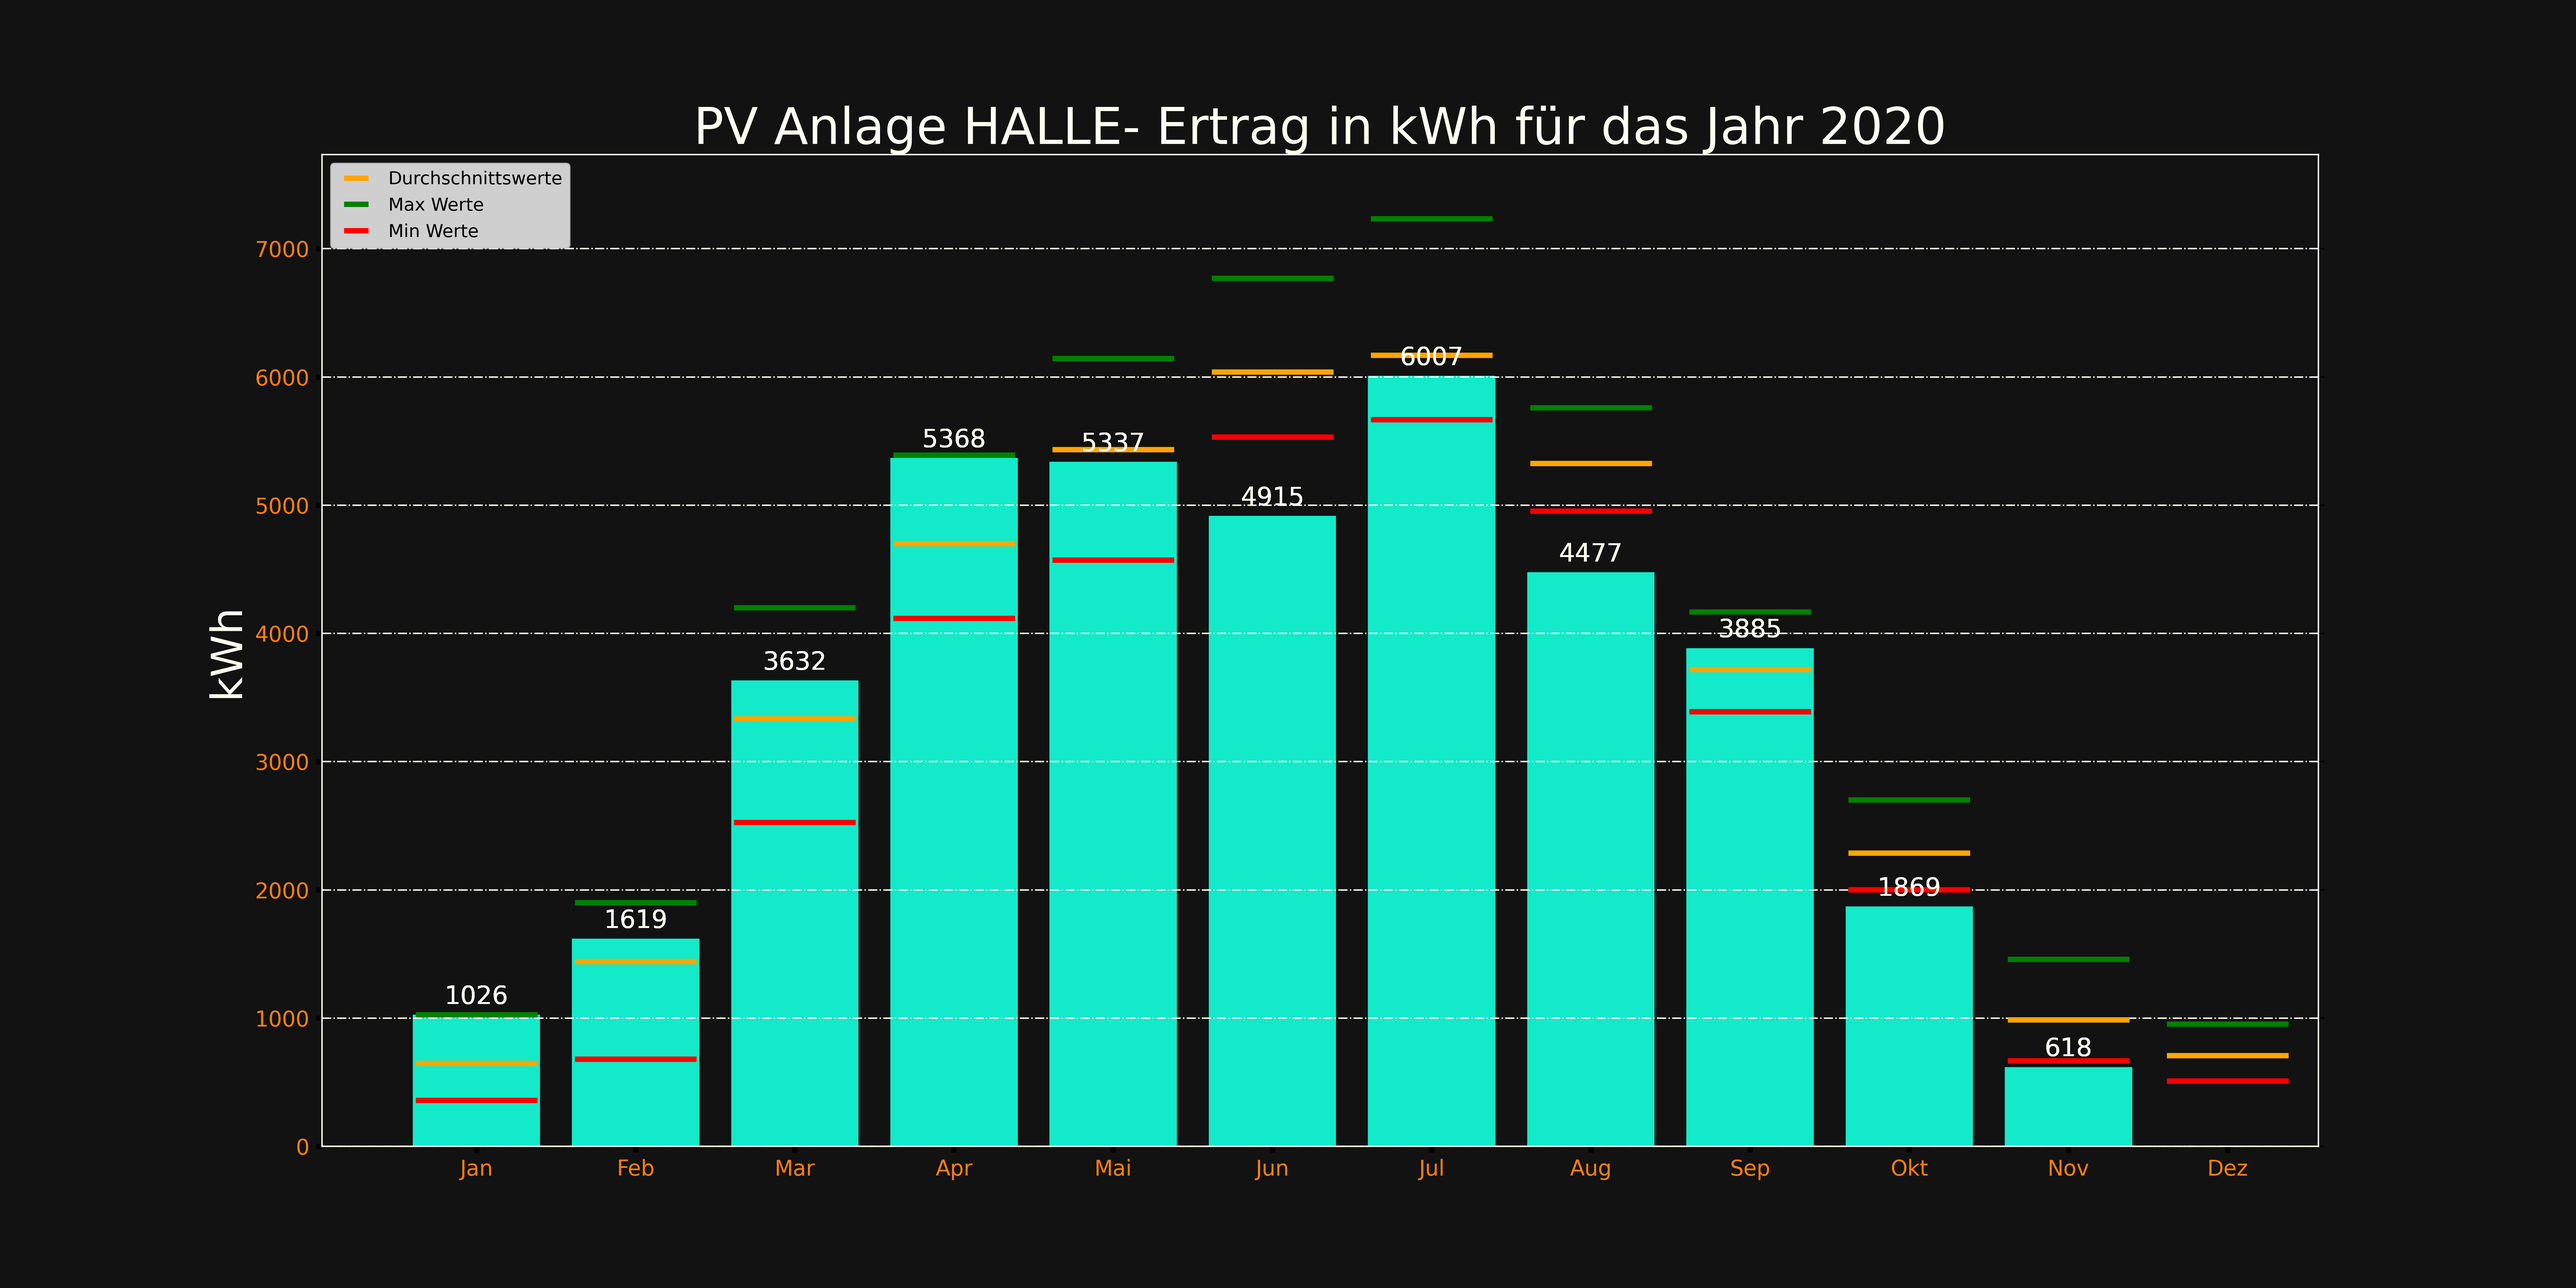
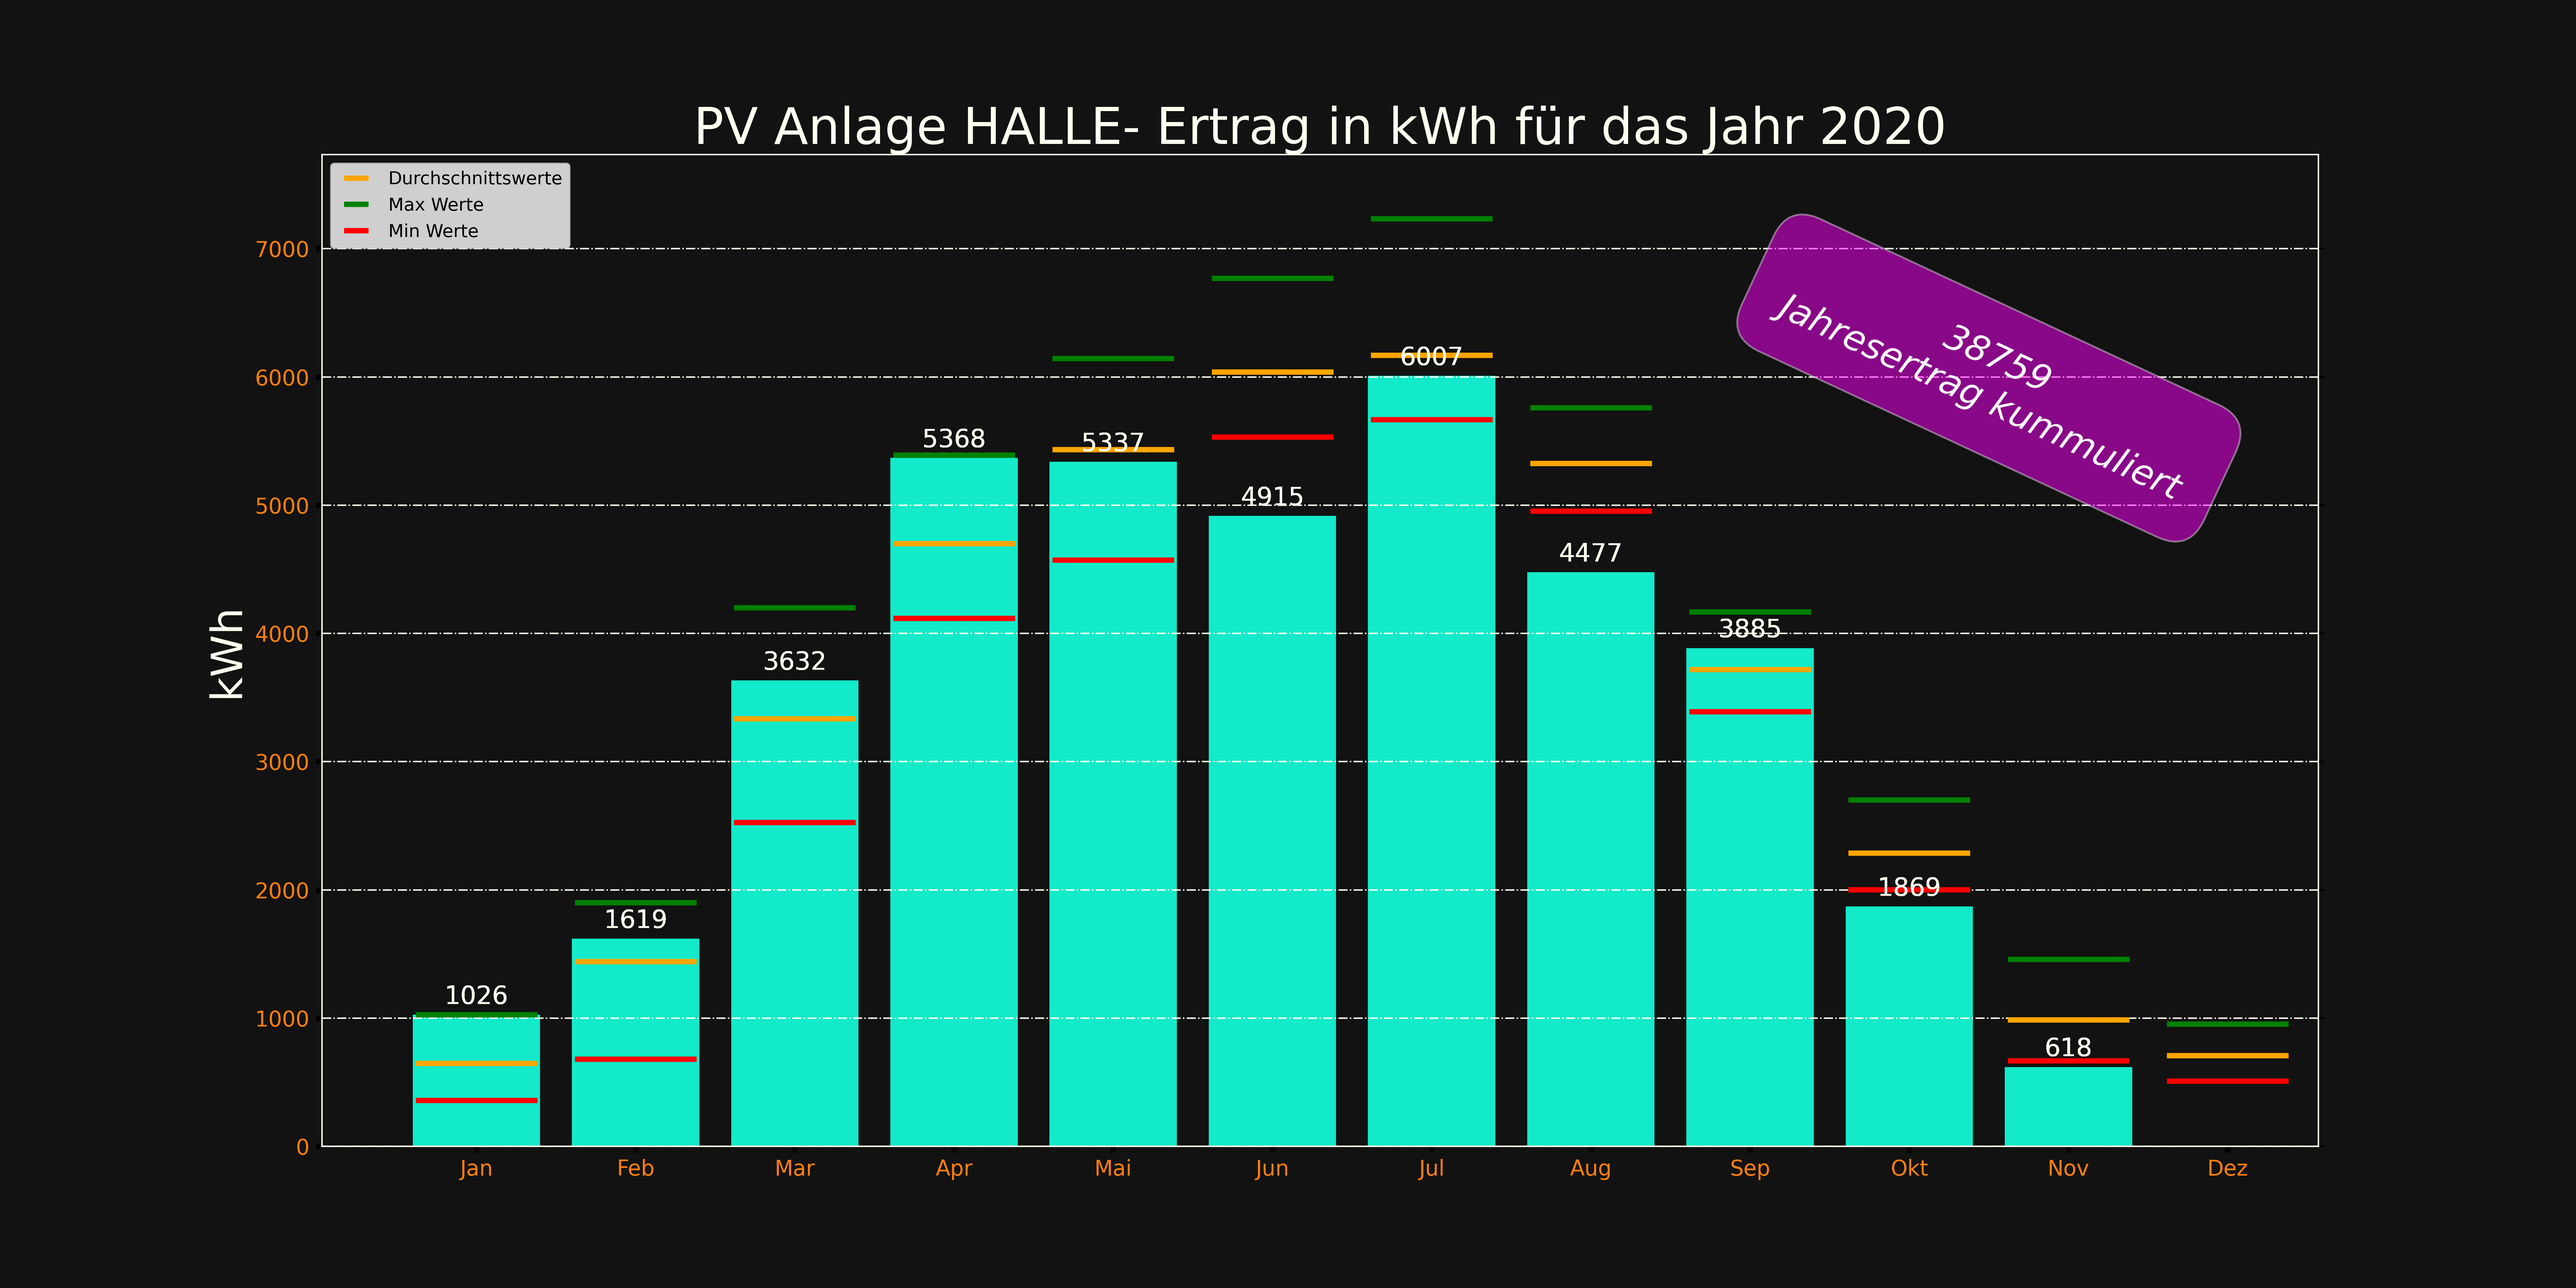
html added

Changed region(s): [[0.6562, 0.1562, 0.875, 0.4375]]

diff --git a/html_template/photovoltaik_html_template.html b/html_template/photovoltaik_html_template.html
@@ -1,0 +1,50 @@
+<!doctype html>
+<html lang="en">
+  <head>
+    <!-- Required meta tags -->
+    <meta charset="utf-8">
+    <meta name="viewport" content="width=device-width, initial-scale=1, shrink-to-fit=no">
+
+    <!-- Bootstrap CSS -->
+    <link rel="stylesheet" href="https://stackpath.bootstrapcdn.com/bootstrap/4.1.3/css/bootstrap.min.css" integrity="sha384-MCw98/SFnGE8fJT3GXwEOngsV7Zt27NXFoaoApmYm81iuXoPkFOJwJ8ERdknLPMO" crossorigin="anonymous">
+    <!-- <link href='http://fonts.googleapis.com/css?family=Oswald:400,300,700' rel='stylesheet' type='text/css'> -->
+    <link href='http://fonts.googleapis.com/css?family=Roboto' rel='stylesheet' type='text/css'>
+<style> 
+img.plot {
+  width: 100%;
+  height: auto;
+}
+
+</style>
+
+<title>Covid</title>
+</head>
+<body>
+    <!-- Optional JavaScript -->
+    <!-- jQuery first, then Popper.js, then Bootstrap JS -->
+    <script src="https://code.jquery.com/jquery-3.3.1.slim.min.js" integrity="sha384-q8i/X+965DzO0rT7abK41JStQIAqVgRVzpbzo5smXKp4YfRvH+8abtTE1Pi6jizo" crossorigin="anonymous"></script>
+    <script src="https://cdnjs.cloudflare.com/ajax/libs/popper.js/1.14.3/umd/popper.min.js" integrity="sha384-ZMP7rVo3mIykV+2+9J3UJ46jBk0WLaUAdn689aCwoqbBJiSnjAK/l8WvCWPIPm49" crossorigin="anonymous"></script>
+    <script src="https://stackpath.bootstrapcdn.com/bootstrap/4.1.3/js/bootstrap.min.js" integrity="sha384-ChfqqxuZUCnJSK3+MXmPNIyE6ZbWh2IMqE241rYiqJxyMiZ6OW/JmZQ5stwEULTy" crossorigin="anonymous"></script>
+    
+  <table class="table table-dark">
+  
+<thead>
+    <tr>
+        <!-- <tr><td style="text-align:center"><img src="https://storage.googleapis.com/darkshadow-share/corona1.png" class="logo"></td>     -->
+          <td>Photovoltaik</td>
+    </tr>
+
+    <!-- <tr>
+      <th scope="col" style="vertical-align: middle">#</th>
+      <th scope="col" style="vertical-align: middle">Stadt/Landkreis</th>
+      <th scope="col" style="vertical-align: middle">7 Tage Inzidenz pro 100k Einwohner</th>
+      <th colspan = 2 scope="col" style="vertical-align: middle">Diff gg Vortag</th> 
+    </tr> -->
+  </thead>
+  <tbody>
+      ##PV_DATA##
+  </tbody>
+</table>
+  
+</body>
+</html>

diff --git a/html_output/halle_pv.html b/html_output/halle_pv.html
@@ -10,48 +10,10 @@
     <!-- <link href='http://fonts.googleapis.com/css?family=Oswald:400,300,700' rel='stylesheet' type='text/css'> -->
     <link href='http://fonts.googleapis.com/css?family=Roboto' rel='stylesheet' type='text/css'>
 <style> 
-img.arrow {
-  width: 32px;
-  height: 17px;
-}
-
 img.plot {
   width: 100%;
   height: auto;
 }
-
-img.logo {
-  width: 100px;
-  height: 100px;
-}
-
-td {
-  vertical-align: middle !important;
-  font-weight: bold !important;
-}
-
-td:nth-child(5) {
-  width: 12px;
-  text-align: right !important;
-  font-weight: bold;
- }
- td:nth-child(4) {
-  width: 12px;
-  align-content: center !important;
-   }
-td:nth-child(3) {
-  width: 16px;
-  align-content: center !important;
-  text-align:center !important;
-}
-/* 
-body {
-  background-color: #343a40;
-  font-family: 'Oswald', sans-serif !important; 
-  font-family: 'Roboto', sans-serif;
-  font-size: 20px;
-} */
-
 
 </style>
 
@@ -68,20 +30,20 @@ body {
   
 <thead>
     <tr>
-        <tr><td colspan = 5 style="text-align:center"><img src="https://storage.googleapis.com/darkshadow-share/corona1.png" class="logo"></td>    
+        <!-- <tr><td style="text-align:center"><img src="https://storage.googleapis.com/darkshadow-share/corona1.png" class="logo"></td>     -->
+          <td>Photovoltaik</td>
     </tr>
 
-    <tr>
+    <!-- <tr>
       <th scope="col" style="vertical-align: middle">#</th>
       <th scope="col" style="vertical-align: middle">Stadt/Landkreis</th>
       <th scope="col" style="vertical-align: middle">7 Tage Inzidenz pro 100k Einwohner</th>
       <th colspan = 2 scope="col" style="vertical-align: middle">Diff gg Vortag</th> 
-    </tr>
+    </tr> -->
   </thead>
   <tbody>
-      ##COVID_DATA##
-      ##LAST_UPDATE##
-      <tr><td colspan = 5><img src="https://storage.googleapis.com/darkshadow-share/plot.png" class="plot"></td></tr>
+<tr><td colspan = 5><img src="https://storage.googleapis.com/darkshadow-share/halle_pv_2020.png" class="plot"></td></tr>
+<tr><td colspan = 5><img src="https://storage.googleapis.com/darkshadow-share/halle_pv_2019.png" class="plot"></td></tr>
   </tbody>
 </table>
   

diff --git a/photovoltaik.py b/photovoltaik.py
@@ -18,6 +18,18 @@ yesterday = datetime.date.today() - datetime.timedelta(days=1)
 yesterday = yesterday.strftime("%d.%m.%Y")
 
 current_year = today[6:10]
+
+#historische Datenaufbereitung
+years=[]
+if len(sys.argv) > 1:
+    if sys.argv[1] == 'history':
+        for year in range(2011, int(current_year)+1):
+            years.append(year)
+else:
+    years.append(int(current_year))
+
+years=[2019,2020]
+
 gs_folder = "darkshadow-share/"
 
 if sys.platform == "linux" or sys.platform == "linux2":
@@ -26,22 +38,16 @@ elif sys.platform == "win32":
     dir = 'C:/PV'
 
 anlagen = {
-
-            # 'mike' : ['http://192.168.178.58/cgi-bin/download.csv/',
-            #           'mike_pv_'  ,
-            #           'mike_raw_data.db' 
-            #          ] ,
-
-            'mike ' : { 'url'              : 'http://192.168.178.58/cgi-bin/download.csv/',
-                        'plotname'         : 'mike_pv_'  ,
-                        'db'               : 'mike_raw_data.db'  ,
-                        'colors'           : {
-                                                'background-color': '#121212', 
-                                                'bar-color'       : 'azure',
-                                                'text-color'      : 'ivory'
-                                             }
-            },
-
+            # 'mike ' : { 'url'              : 'http://192.168.178.58/cgi-bin/download.csv/',
+            #             'plotname'         : 'mike_pv_'  ,
+            #             'db'               : 'mike_raw_data.db'  ,
+            #             'colors'           : {
+            #                                     'background-color': '#121212', 
+            #                                     'bar-color'       : 'azure',
+            #                                     'text-color'      : 'ivory'
+            #                                  }
+            # }
+            # ,
             'halle' : { 'url'              : 'http://192.168.178.57/cgi-bin/download.csv/',
                         'plotname'         : 'halle_pv_'  ,
                         'db'               : 'halle_raw_data.db'  ,
@@ -57,20 +63,48 @@ anlagen = {
 
 MAX_DAYS = 14
 
-def main():
-    # fuer jede Anlage einen Durchlauf
-    for key, value in anlagen.items():
-        url             = value['url']
-        plot_filename   = value['plotname'] + current_year + '.png'
-        db              = value['db']
-        colors          = value['colors']
-        path            = os.path.join(os.path.expanduser(dir), db) 
-                
-        #start_date, end_date = get_date(url, path)
-        #get_values_from_pv(start_date, end_date, url, path)
-        make_graph(current_year, path, plot_filename, colors)
-        
-        upload_plot(plot_filename)
+def main(years):
+    for year in years:
+        # fuer jede Anlage einen Durchlauf
+        for key, value in anlagen.items():
+            url             = value['url']
+            plot_filename   = value['plotname'] + str(year) + '.png'
+            db              = value['db']
+            colors          = value['colors']
+            path            = os.path.join(os.path.expanduser(dir), db) 
+                    
+            #start_date, end_date = get_date(url, path)
+            #get_values_from_pv(start_date, end_date, url, path)
+            make_graph(year, path, plot_filename, colors)
+            upload_plot(plot_filename)
+    html(value['plotname'])
+
+def html(plotname):
+    global years
+    add_line=[]
+    i = 1
+    html_template = os.path.join(os.path.expanduser(dir+"/html_template"), 'photovoltaik_html_template.html')
+    html_template_file = open(html_template, 'r')
+    html_code = html_template_file.readlines()
+
+    global html_out_filename, html_filename
+    html_out_filename = f'{plotname[:-1]}.html'
+    html_filename = os.path.join(os.path.expanduser(dir+"/html_output"), html_out_filename)
+    htmlfile = open (html_filename, 'w')
+
+    for item in html_code:
+        if item.find('##PV_DATA##') > 0:
+            print (item)
+            while years:
+                year = years.pop()
+                print (year)
+                item = f'<tr><td colspan = 5><img src="https://storage.googleapis.com/{gs_folder}{plotname}{year}.png" class="plot"></td></tr>\n'
+                if len(years)>0: 
+                    htmlfile.write(item)
+                else:
+                    pass
+        htmlfile.write(item)
+    htmlfile.close()
 
 def get_date(url, path):
     #read max date from shelve db
@@ -145,10 +179,9 @@ def make_graph(year, path, plot_filename, colors):
     df_min['haus_min_monat']     = df_min['haus_sum_monatabs']
     
    
-    df = df[(df.Jahr == int(current_year))]
+    df = df[(df.Jahr == int(year))]
     max_value = df_max['haus_sum_monatabs'].max()
-    df_kum = df.loc[df.groupby("Monat")["haus_sum_monatabs"].idxmax()]
-    print (df_kum)
+    kum_value = df['HausGesamt'].sum().astype(int) 
     print ("Max_value", max_value)
     #print (df_max)
     #print (df_mean)
@@ -185,30 +218,23 @@ def make_graph(year, path, plot_filename, colors):
     ax.set_zorder(ax2.get_zorder()+1)
     ax.patch.set_visible(False)
     ax.legend(loc="upper left",markerscale=0.2)
-
-    yticks = []
-    #df_kum.astype(int)
-    df_kum['haus_sum_monatabs'] = df_kum['haus_sum_monatabs'].astype(int) 
-    #for ytick in sorted(df_kum['haus_sum_monatabs']):
-    #    yticks.append(ytick)
-    
-    #ax2.set_yticks(yticks, minor=True)
-    #yt = ax2.get_yticks()
-    #yt = np.append(yt,yticks)
-
-    #print (minor_ticks)
-    #ax.set_yticks(yticks)
-    #ax.set_yticklabels(yticks)
-
-    #ax.grid(which='minor', alpha=0., color='#CCCCCC', linestyle='-.')
-    #ax.grid(which='major', color='#CCCCCC', linestyle='-')
     ax.grid(True, linestyle='-.', color=colors['text-color'])   
     ax.xaxis.grid(False)
 
     for p in ax2.patches:
         ax.annotate("%d" % p.get_height(), (p.get_x() + p.get_width() / 2., p.get_height()), ha='center', va='center', xytext=(0, 10), textcoords='offset points', color=colors['text-color'] ,fontsize=14)
-    
-    plt.show()
+
+    ypos = max_value * 0.7
+    print ("ypos", ypos)
+    ax.text(10.5, ypos, f'{kum_value}\nJahresertrag kummuliert', ha='center', color='white', size=20, rotation=-25., style='italic',
+                bbox=dict(boxstyle="round, pad=1",
+                          fc='fuchsia',
+                          ec='lightgrey',
+                          alpha=0.5
+                   )
+    )
+
+    #plt.show()
     
     fig.savefig(f'{plot_filename}', dpi=400)
     #savefig(f'{plot_filename}', facecolor=fig.get_facecolor(), transparent=True)
@@ -259,7 +285,7 @@ def upload_plot(plot_filename):
     os.system(cmd1)
     os.system(cmd2)
 
-main()
+main(years)
 
 
 
